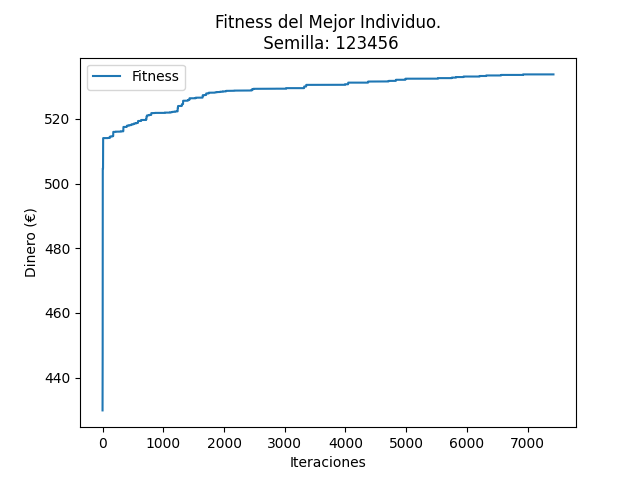
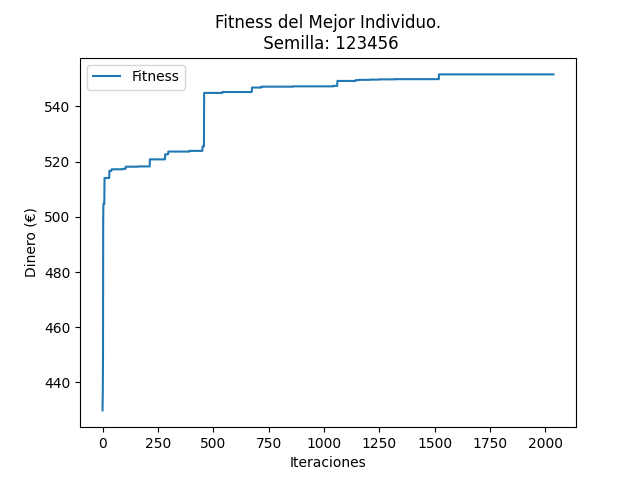
auto-commit:02/05/2023 a las 10:15:45,83

diff --git a/2º Cuatrimestre/[MByHB] Modelos Bioinspirados y Heurísticas de Búsquedas/Prácticas/Practica3_AlgoritmosGeneticos/Multimodal/Algoritmo_Genetico_Multimodal.py b/2º Cuatrimestre/[MByHB] Modelos Bioinspirados y Heurísticas de Búsquedas/Prácticas/Practica3_AlgoritmosGeneticos/Multimodal/Algoritmo_Genetico_Multimodal.py
@@ -6,7 +6,7 @@ def mutacion(individuo):
     if np.random.random() <= Utils.PORCENTAJE_MUTACION:
         # Obtiene el valor de la posición asignada
         posicion = np.random.randint(0, 24)
-        valor = individuo[posicion] * np.random.uniform(0, 10) / 100
+        valor = 10
         # Sumar o Restar
         if np.random.uniform() < 0.5:
             ind_mutado[posicion] += valor
@@ -37,6 +37,9 @@ def cruce(individuo1, individuo2):
 
 def torneo(valores_cromosomas, k):
     probabilidades = valores_cromosomas / sum(valores_cromosomas)
+    # print("\n")
+    # print(k)
+    # print(len(valores_cromosomas))
     indices = np.random.choice(a=np.array([i for i in range(len(valores_cromosomas))]),
                                size=k, replace=False,
                                p=probabilidades)
@@ -53,7 +56,30 @@ def elitismo(poblacion, k, isRandom):
 
     return poblacion[top_5_indices].copy()
 
-
+def clearing(poblacion, israndom):
+    # Realizamos la seleccion sobre los individuos dominantes, por tanto, hay que limpiar a los individuos de cada nicho.
+    # Obtenemos los valores del fitness de la poblacion
+    fitness_poblacion = Utils.fitnessPoblacion(poblacion,israndom)[0]
+    # Clasificación de la población de forma descendente
+    indices_ordenados = np.argsort(-fitness_poblacion)
+    # Se escoge al mejor individuo y se compara con el resto de forma descendente. Aquellos individuos que estén dentro de
+    # su radio, quedan eliminados.
+    for i in range(len(fitness_poblacion)):
+        if fitness_poblacion[indices_ordenados[i]] > 0:
+            numGanadores = 1
+            # print(fitness_poblacion[indices_ordenados[i]])
+            # print(f"i={i}")
+            for j in range(i+1,len(fitness_poblacion)):
+                print(Utils.distanciaEuclidea(poblacion[indices_ordenados[i]], poblacion[indices_ordenados[j]]))
+                if fitness_poblacion[indices_ordenados[j]] > 0 and \
+                        Utils.distanciaEuclidea(poblacion[indices_ordenados[i]], poblacion[indices_ordenados[j]]) < Utils.RADIO_CLEARING:
+                    if numGanadores < Utils.KAPPA:
+                        numGanadores += 1
+                    else:
+                        fitness_poblacion[indices_ordenados[j]] = 0
+    print(fitness_poblacion)
+    print("\n")
+    return poblacion[fitness_poblacion[indices_ordenados] != 0] # Devuelve los individos que no han sido eliminados.
 def algoritmo_genetico_generacional_multimodal(semilla, isRandom):
     np.random.seed(semilla)
     t = 0
@@ -75,16 +101,28 @@ def algoritmo_genetico_generacional_multimodal(semilla, isRandom):
     peor_valor = valores_poblacion[indice_minimo]
     historicoPeor = [peor_valor]
 
+    numero_evaluaciones = len(poblacion)
+
     # Multimodal
     P = 0   # Numero de generaciones que han transcurrido.
     while t < Utils.NUM_ITERACIONES:
         t = t + 1
         # Seleccionamos la élite de la población:
         elite = elitismo(poblacion, Utils.ELITE, isRandom)
+        numero_evaluaciones += len(poblacion)
+
+        # Realizamos CLEARING:
+        if P >= Utils.NUMERO_GENERACIONES_CLEARING:
+            # print(f"Antes: {len(poblacion)}")
+            P = 0
+            numero_evaluaciones += len(poblacion)
+            poblacion = clearing(poblacion, isRandom)
+
+            valores_poblacion = Utils.fitnessPoblacion(poblacion, isRandom)[0]
+            numero_evaluaciones += len(poblacion)
 
         # Seleccionar los índices de los padres (K=3)
-        
-        candidatos = np.array([torneo(valores_poblacion, int(Utils.K * Utils.POBLACION_INICIAL)) for _ in
+        candidatos = np.array([torneo(valores_poblacion, 3) for _ in
                                range(Utils.POBLACION_INICIAL)])
 
         # Elegimos a los L=2 mejores de cada trío de padres
@@ -99,7 +137,7 @@ def algoritmo_genetico_generacional_multimodal(semilla, isRandom):
         # Añado la élite a la siguiente generación:
         hijos[0:Utils.ELITE, :] = elite
         for i in range(Utils.ELITE, Utils.POBLACION_INICIAL, 2):
-            if np.random.random_integers(0, 100) < 80: # Probabilidad de cruce del 80%
+            if np.random.uniform() < 0.8: # Probabilidad de cruce del 80%
                 h1, h2 = cruce(poblacion[padres[i-Utils.ELITE][0].copy()],
                                poblacion[padres[Utils.ELITE][1].copy()])
             else:   # Si no, se copian como hijos.
@@ -111,9 +149,10 @@ def algoritmo_genetico_generacional_multimodal(semilla, isRandom):
         # Mutar P(t)
         hijos_mutados = np.apply_along_axis(mutacion, 1, hijos.copy())
         poblacion = hijos_mutados
-
+        # print(f"Nueva Pob. {len(poblacion)}")
         # Evaluar P(t)
         valores_poblacion, dinero_acumulado, bateria_acumulada = Utils.fitnessPoblacion(poblacion, isRandom)
+        numero_evaluaciones += len(poblacion)
         indice_maximo = np.argmax(valores_poblacion)
         indice_minimo = np.argmin(valores_poblacion)
 
@@ -131,11 +170,14 @@ def algoritmo_genetico_generacional_multimodal(semilla, isRandom):
             # Obtenemos el peor individuo de la poblacion
             peor_valor = valores_poblacion[indice_minimo].copy()
 
-    return mejor_valor, (historicoMejor, historicoPeor), mejorValorAcumulado, mejor_individuo
+        P += 1 # Aumentamos una generación
+
+    return mejor_valor, (historicoMejor, historicoPeor), mejorValorAcumulado, mejor_individuo, numero_evaluaciones
 
 
 if __name__ == "__main__":
     Utils.grafica(algoritmo_genetico_generacional_multimodal, israndom=False)
-
+    # clearing(Utils.inicializar_poblacion(Utils.POBLACION_INICIAL),israndom=False)
+    # print(algoritmo_genetico_generacional_multimodal(123456, isRandom=False)[0])
 
 

diff --git a/2º Cuatrimestre/[MByHB] Modelos Bioinspirados y Heurísticas de Búsquedas/Prácticas/Practica3_AlgoritmosGeneticos/Basico/Algoritmo_Genetico_Basico.py b/2º Cuatrimestre/[MByHB] Modelos Bioinspirados y Heurísticas de Búsquedas/Prácticas/Practica3_AlgoritmosGeneticos/Basico/Algoritmo_Genetico_Basico.py
@@ -3,11 +3,6 @@ import numpy as np
 
 import Utils
 
-'''
-Función de mutación del algoritmo genético.
-
-'''
-
 
 def mutacion(individuo):
     ind_mutado = individuo.copy()
@@ -15,6 +10,7 @@ def mutacion(individuo):
         # Obtiene el valor de la posición asignada
         posicion = np.random.randint(0, 24)
         valor = individuo[posicion] * np.random.uniform(0, 10) / 100
+        valor = 10
         # Sumar o Restar
         if np.random.uniform() < 0.5:
             ind_mutado[posicion] += valor
@@ -39,7 +35,6 @@ def cruce(individuo1, individuo2):
                                                               individuo1[max_pos:len(individuo1)].copy()))
     hijo2 = np.append(individuo2[0:min_pos].copy(), np.append(individuo1[min_pos:max_pos].copy(),
                                                               individuo2[max_pos:len(individuo2)].copy()))
-    # print(f"Cruce: {individuo1} + {individuo2} =\n {hijo1} y {hijo2}")
     return hijo1, hijo2
 
 
@@ -83,10 +78,15 @@ def algoritmo_genetico_generacional(semilla, isRandom):
     peor_valor = valores_poblacion[indice_minimo]
     historicoPeor = [peor_valor]
 
+    # Evaluaciones
+    # Inicializamos el numero de evaluaciones a la longitud de la poblacion porque la hemos evaluado inicialmente.
+    numero_evaluaciones = len(poblacion)
+
     while t < Utils.NUM_ITERACIONES:
         t = t + 1
         # Seleccionamos la élite de la población:
         elite = elitismo(poblacion, Utils.ELITE, isRandom)
+        numero_evaluaciones += len(poblacion) # Evaluamos a toda la poblacion para escoger la élite.
 
         # Seleccionar los índices de los padres (K=3)
         candidatos = np.array([torneo(valores_poblacion, int(Utils.K * Utils.POBLACION_INICIAL)) for _ in
@@ -115,6 +115,7 @@ def algoritmo_genetico_generacional(semilla, isRandom):
 
         # Evaluar P(t)
         valores_poblacion, dinero_acumulado, bateria_acumulada = Utils.fitnessPoblacion(poblacion, isRandom)
+        numero_evaluaciones += len(poblacion)
         indice_maximo = np.argmax(valores_poblacion)
         indice_minimo = np.argmin(valores_poblacion)
 
@@ -132,11 +133,11 @@ def algoritmo_genetico_generacional(semilla, isRandom):
             # Obtenemos el peor individuo de la poblacion
             peor_valor = valores_poblacion[indice_minimo].copy()
 
-    return mejor_valor, (historicoMejor, historicoPeor), mejorValorAcumulado, mejor_individuo
+    return mejor_valor, (historicoMejor, historicoPeor), mejorValorAcumulado, mejor_individuo, numero_evaluaciones
 
 
 if __name__ == "__main__":
-    Utils.grafica(algoritmo_genetico_generacional, israndom=True)
+    Utils.grafica(algoritmo_genetico_generacional, israndom=False)
 
 
 

diff --git a/2º Cuatrimestre/[MByHB] Modelos Bioinspirados y Heurísticas de Búsquedas/Prácticas/Practica3_AlgoritmosGeneticos/Utils.py b/2º Cuatrimestre/[MByHB] Modelos Bioinspirados y Heurísticas de Búsquedas/Prácticas/Practica3_AlgoritmosGeneticos/Utils.py
@@ -20,9 +20,9 @@ ALPHA = 0.01
 NUM_ITERACIONES_CHC = 2000
 
 # Multimodal
-NUMERO_GENERACIONES_CLEARING = 10
-RADIO_CLEARING = 5
-KAPPA = 2
+NUMERO_GENERACIONES_CLEARING = 100
+RADIO_CLEARING = 200
+KAPPA = 6
 
 # Problema
 capacidad_bateria = 300  # Capacidad total de la bateria
@@ -159,9 +159,12 @@ def inicializar_poblacion(size):
 
 def grafica(funcion, israndom):
     dinero = [0 for i in range(len(SEMILLAS))]
+    evaluaciones = [0 for i in range(len(SEMILLAS))]
     for i in range(len(SEMILLAS)):
-        mejor_valor, historico, mejor_valor_acumulado, mejor_individuo = funcion(SEMILLAS[i], israndom)
+        mejor_valor, historico, mejor_valor_acumulado, mejor_individuo, numEvaluaciones = funcion(SEMILLAS[i], israndom)
+
         dinero[i] = mejor_valor
+        evaluaciones[i] = numEvaluaciones
         # Convergencia de los individuos
         fig, ax = plt.subplots()
         ax.plot([i for i in range(len(historico[0]))], [i/100 for i in historico[0]], label="Fitness Mejor Individuo")
@@ -209,9 +212,9 @@ def grafica(funcion, israndom):
         plt.show()
 
     data = {
-        # 'Media Evaluaciones': [statistics.mean(evaluaciones[:])],
-        # 'Mejor Evaluación': [min(evaluaciones[:])],
-        # 'Desviación Evaluaciones': [statistics.stdev(evaluaciones[:])],
+        'Media Evaluaciones': [statistics.mean(evaluaciones[:])],
+        'Mejor Evaluación': [min(evaluaciones[:])],
+        'Desviación Evaluaciones': [statistics.stdev(evaluaciones[:])],
         'Media Dinero (€)': [round(statistics.mean(dinero[:]) / 100, 2)],
         'Mejor Dinero (€)': [round(max(dinero[:]) / 100, 2)],
         'Desviación Dinero (€)': [round(statistics.stdev(dinero[:]) / 100, 2)]

diff --git a/2º Cuatrimestre/[MByHB] Modelos Bioinspirados y Heurísticas de Búsquedas/Prácticas/Practica3_AlgoritmosGeneticos/CHC/Algoritmo_Genetico_CHC.py b/2º Cuatrimestre/[MByHB] Modelos Bioinspirados y Heurísticas de Búsquedas/Prácticas/Practica3_AlgoritmosGeneticos/CHC/Algoritmo_Genetico_CHC.py
@@ -133,7 +133,10 @@ def CHC(semilla, israndom):
     historicoPeor = [peor_valor]
     historicoMejor = [mejor_valor]
     mejorIndividuoGenAnterior = mejor_individuo.copy()
-    evaluaciones = len(poblacion) # Inicializamos al numero de individuos porque hemos calculado el fitness anteriormente.
+
+    # Inicializamos al numero de individuos porque hemos calculado el fitness anteriormente.
+    numero_evaluaciones = len(poblacion)
+
     numero_reinicios = 0
 
     # Mientras no se cumpla la condicion
@@ -156,6 +159,7 @@ def CHC(semilla, israndom):
         # Seleccionar
         poblacion = select_s(parejas, hijos, israndom)
         valores_poblacion, _, _ = Utils.fitnessPoblacion(poblacion, israndom)
+        numero_evaluaciones += len(poblacion)
         indice_maximo = np.argmax(valores_poblacion)
         indice_minimo = np.argmin(valores_poblacion)
 
@@ -194,8 +198,8 @@ def CHC(semilla, israndom):
             numero_reinicios += 1
             print(f"Reincios: {numero_reinicios}")
 
-    return mejor_valor, (historicoMejor, historicoPeor), mejorValorAcumulado, mejor_individuo
+    return mejor_valor, (historicoMejor, historicoPeor), mejorValorAcumulado, mejor_individuo, numero_evaluaciones
 
 
 if __name__ == "__main__":
-    Utils.grafica(CHC, israndom=True)
+    Utils.grafica(CHC, israndom=False)
